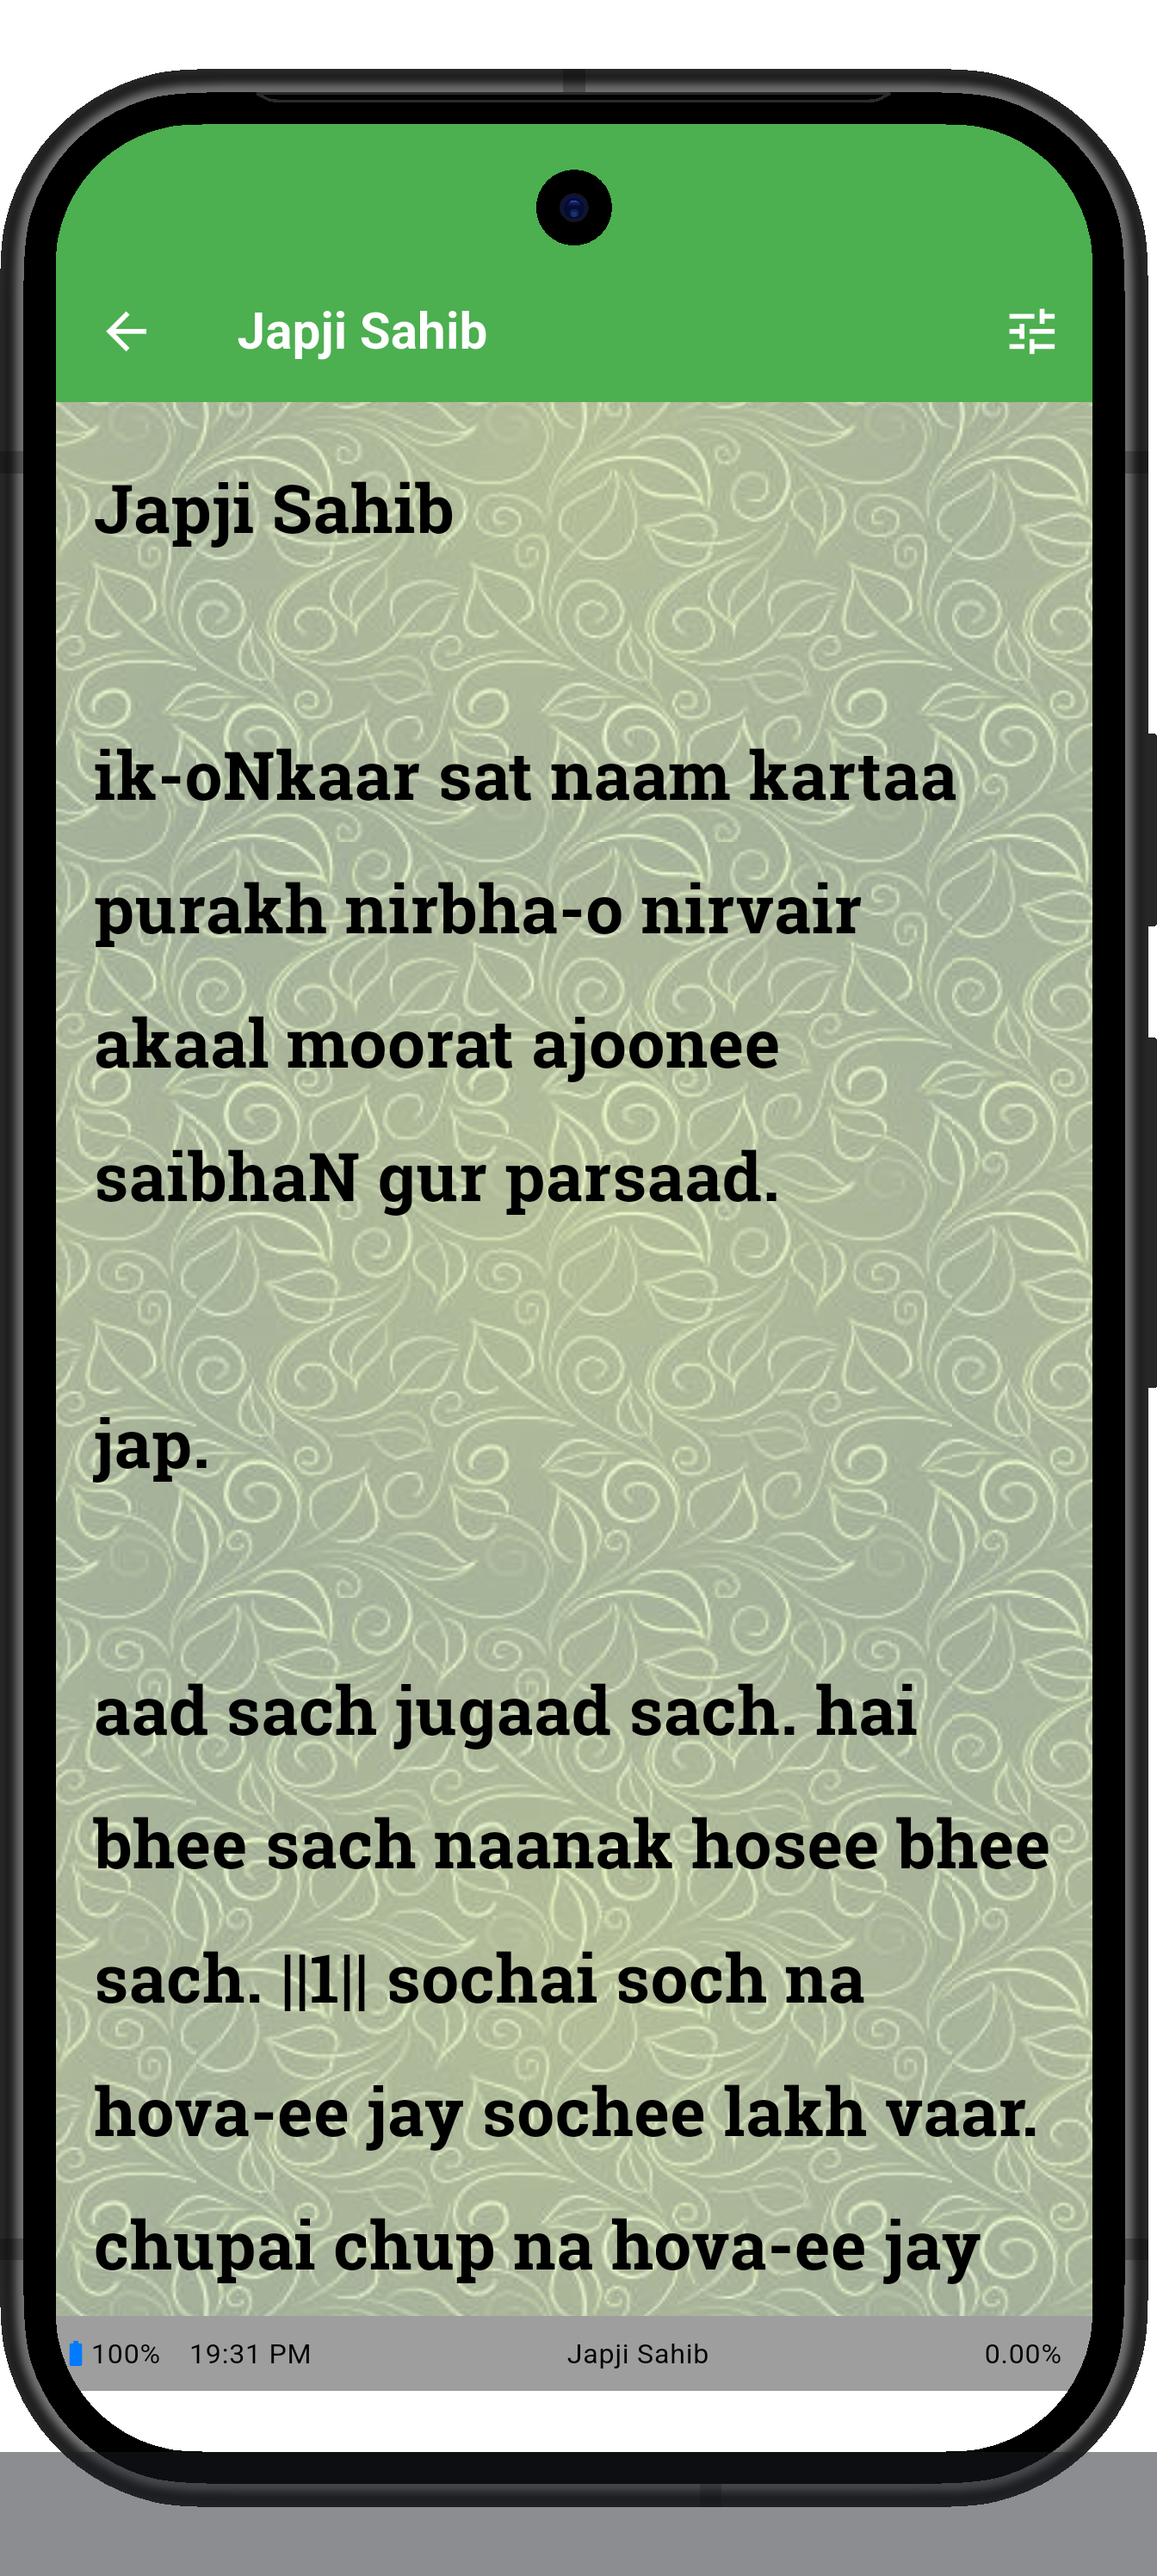
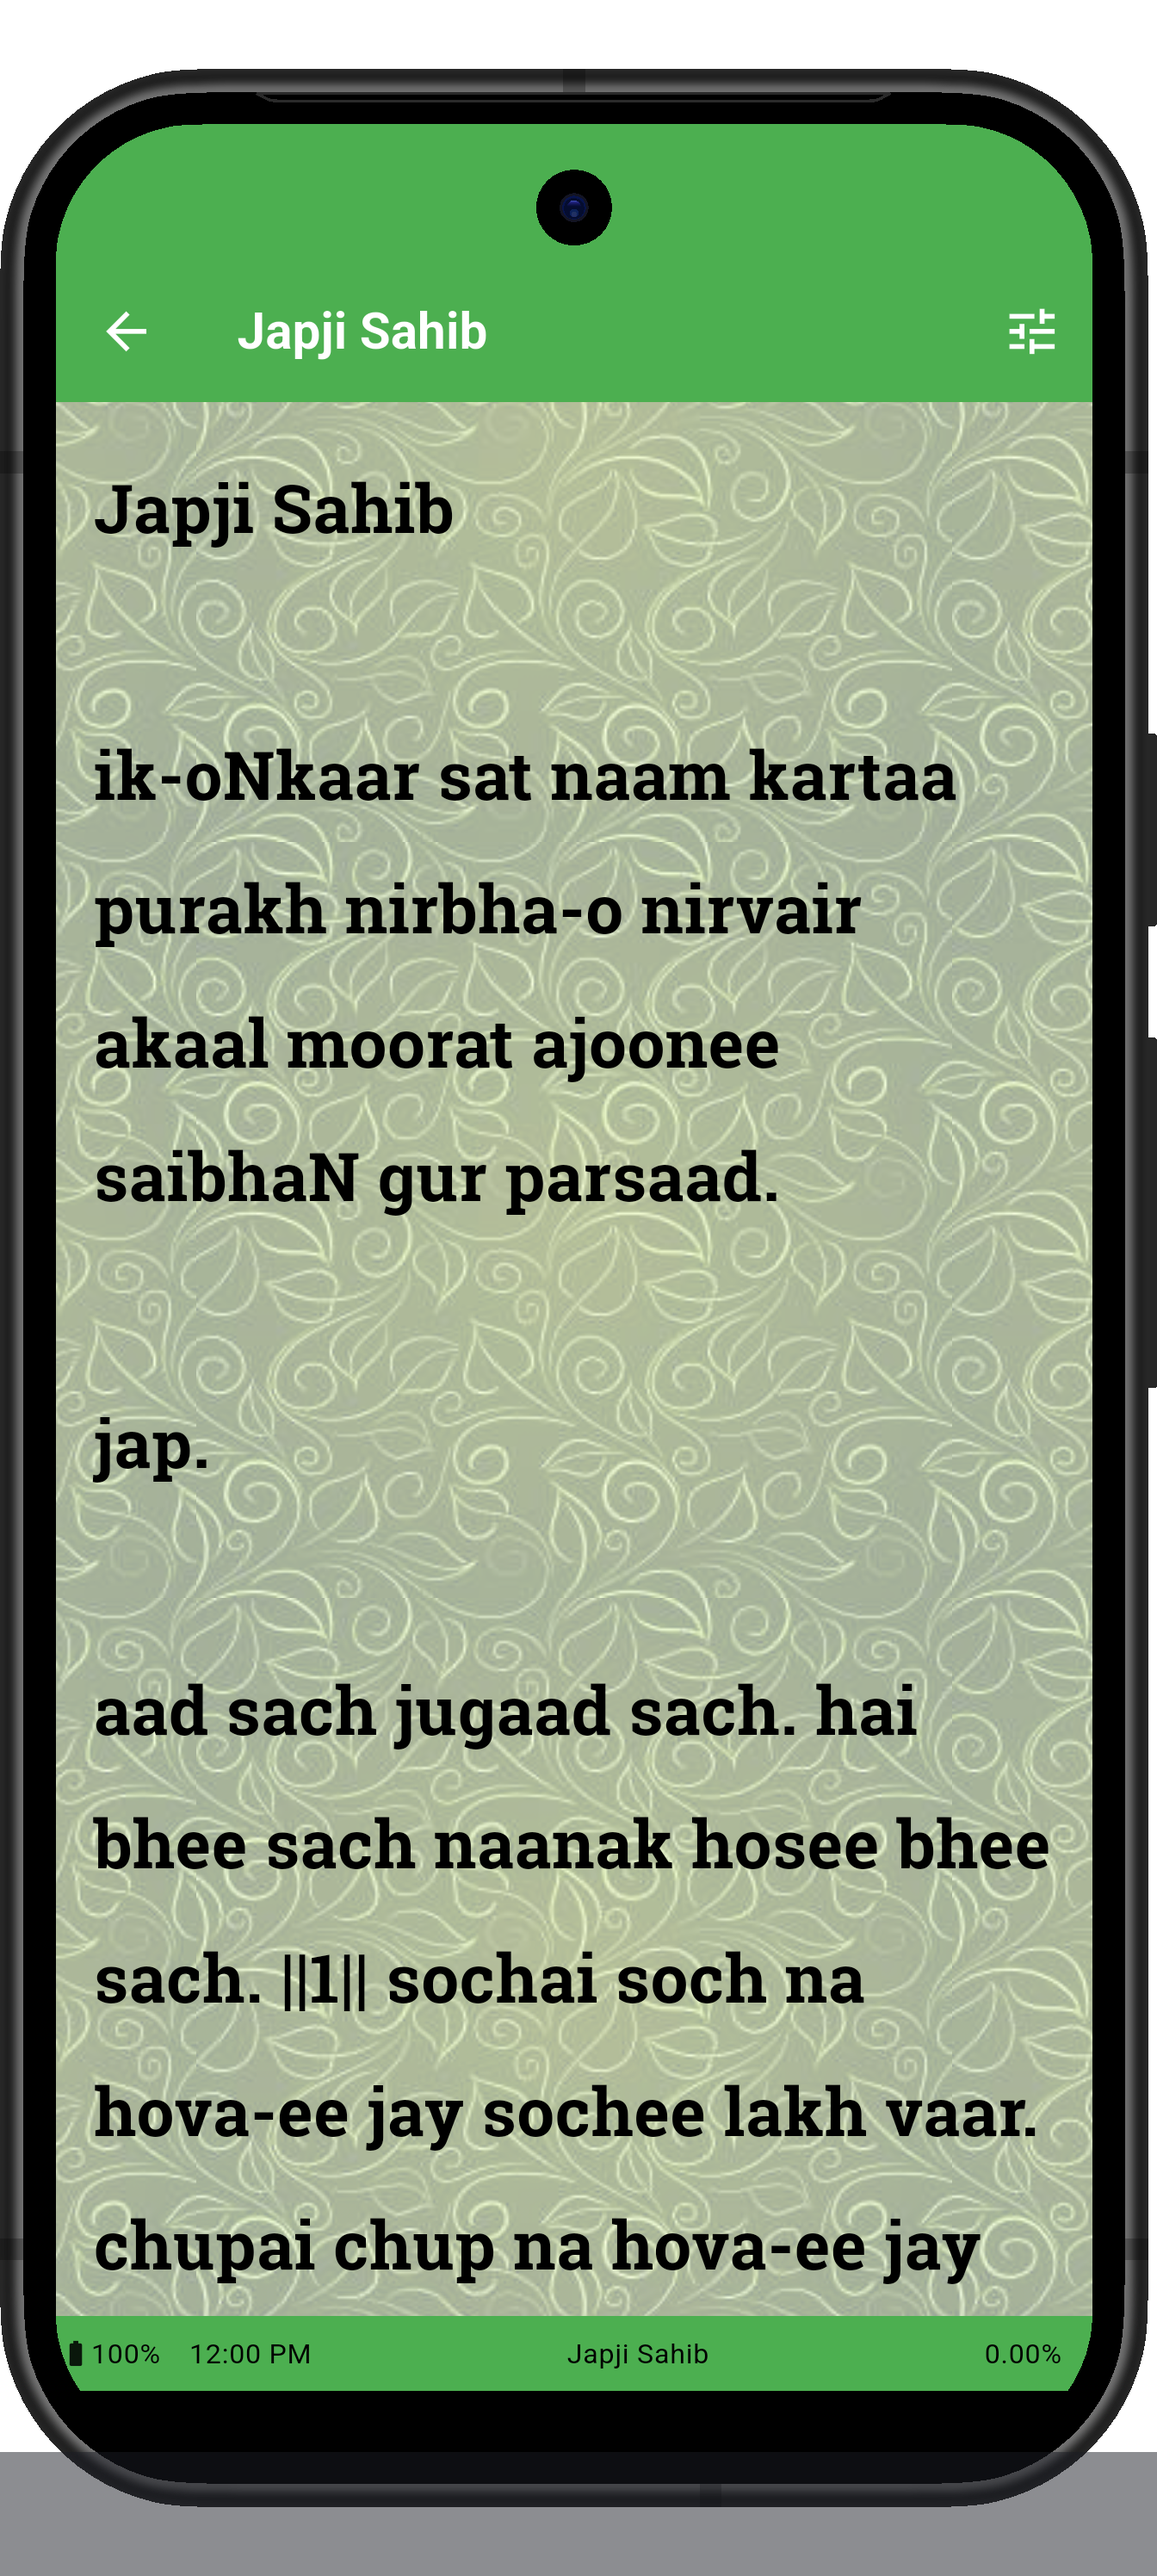
feat: add scripts for generating phone and tablet screenshots
- Introduced `generate_phone_screenshots.sh` to automate screenshot generation for Android phones.
- Introduced `generate_tablet_screenshots.sh` to automate screenshot generation for Android tablets.
- Added a new image file `woodtheme.png` for tablet listing.
- Both scripts include device detection, emulator preparation, and output directory management.

Changed region(s): [[0.0312, 0.9014, 0.9375, 0.9636]]

diff --git a/integration_test/screenshot_test.dart b/integration_test/screenshot_test.dart
@@ -1,3 +1,4 @@
+import 'dart:async';
 import 'package:flutter/material.dart';
 import 'package:flutter_test/flutter_test.dart';
 import 'package:integration_test/integration_test.dart';
@@ -5,6 +6,7 @@ import 'package:nitnem/app.dart';
 import 'package:nitnem/pages/readerscreen.dart';
 import 'package:nitnem/persistence/persistence.dart';
 import 'package:nitnem/providers/settings_provider.dart';
+import 'package:nitnem/providers/system_providers.dart';
 import 'package:nitnem/models/appoptions.dart';
 import 'package:backdrop/backdrop.dart';
 import 'package:device_frame/device_frame.dart';
@@ -15,79 +17,72 @@ class MockSettings extends Settings {
   MockSettings(this.initialOptions);
 
   @override
-  Future<AppOptions> build() async => initialOptions;
+  FutureOr<AppOptions> build() async => initialOptions;
 }
 
 void main() {
   final binding = IntegrationTestWidgetsFlutterBinding.ensureInitialized();
 
-  testWidgets('Capture screenshots for Play Store', (WidgetTester tester) async {
-    print('🚀 Initializing app with device frame...');
+  const String deviceType = String.fromEnvironment('DEVICE_TYPE', defaultValue: 'phone');
+  final bool isTablet = deviceType == 'tablet';
+  
+  // Explicitly select the correct frame
+  final device = isTablet 
+      ? Devices.android.mediumTablet 
+      : Devices.android.googlePixel9;
+  
+  final category = isTablet ? 'android-tablet' : 'android-phone';
+  final orientation = Orientation.portrait; // Force portrait for both
+
+  testWidgets('Capture screenshots for Play Store ($category)', (WidgetTester tester) async {
+    print('🚀 Initializing app with device frame for $category...');
     
-    // Initialize state manually to wrap the app in a DeviceFrame
     final options = await loadOptionsFromPrefs();
     
     await tester.pumpWidget(
       ProviderScope(
         overrides: [
           settingsProvider.overrideWith(() => MockSettings(options)),
+          currentTimeProvider.overrideWith((ref) => Stream.value('12:00 PM')),
+          batteryLevelProvider.overrideWith((ref) => Stream.value(100)),
         ],
         child: Directionality(
           textDirection: TextDirection.ltr,
           child: Container(
-            color: Colors.transparent, // Transparent background for the frame
+            color: Colors.transparent,
             child: DeviceFrame(
-              device: Devices.android.googlePixel9,
-              isFrameVisible: true,
-              orientation: Orientation.portrait,
+              device: device,
+              isFrameVisible: true, // Restore the device border/frame
+              orientation: orientation,
               screen: NitnemApp(),
             ),
           ),
         ),
       ),
     );
-    await tester.pump();
 
-    // Use container to access providers
+    // Wait for the splash screen to finish (3.5s + some buffer)
+    print('⏳ Waiting for splash screen...');
+    await tester.pump(const Duration(seconds: 5));
+    await tester.pumpAndSettle();
+
     final container = ProviderScope.containerOf(tester.element(find.byType(NitnemApp)));
     
-    // Set required options before starting
+    // Set required options
     await container.read(settingsProvider.notifier).toggleBold(true);
     await container.read(settingsProvider.notifier).toggleStatus(true);
-    await container.read(settingsProvider.notifier).toggleScreenAwake(true);
     await container.read(settingsProvider.notifier).toggleReadingPositionSave(true);
-    await container.read(settingsProvider.notifier).updateTextScale(1.33);
+    await container.read(settingsProvider.notifier).updateTextScale(isTablet ? 1.5 : 1.33);
+    await tester.pumpAndSettle();
 
-    print('⏳ Waiting for home screen...');
-    // Wait for the Japji Sahib text to appear, which confirms we are on the home screen
-    bool homeScreenVisible = false;
-    for (int i = 0; i < 50; i++) {
-      await tester.pump(const Duration(milliseconds: 200));
-      // Need to find text even if it is inside the device frame's screen
-      if (find.text('Japji Sahib').evaluate().isNotEmpty) {
-        homeScreenVisible = true;
-        break;
-      }
-    }
-    
-    if (!homeScreenVisible) {
-      print('❌ Error: Home screen not visible after timeout');
-      return;
-    }
-    
-    print('✅ Home screen reached');
-    await tester.pump(const Duration(seconds: 1));
-
-    // Required for Android screenshots
     print('📸 Converting surface to image...');
     await binding.convertFlutterSurfaceToImage();
     await tester.pump(const Duration(milliseconds: 500));
 
-    // Helper to capture screenshot without pointer/crosshair and at top
+    // Helper to capture screenshot
     Future<void> capture(String name) async {
       print('📸 Capturing $name...');
       
-      // Ensure we are at the top of the scroll view for reader screens
       try {
         final scrollableFinder = find.byType(Scrollable);
         if (scrollableFinder.evaluate().isNotEmpty) {
@@ -95,35 +90,22 @@ void main() {
           state.position.jumpTo(0.0);
           await tester.pump();
         }
-      } catch (e) {
-        print('⚠ Could not reset scroll position for $name');
-      }
+      } catch (e) {}
 
-      // Wait for any animations and pointer indicators to clear
-      // Also wait for FutureProviders to resolve
       // Specifically for reader screens, wait for the actual path text to appear
       if (name.contains('path') || name.contains('theme')) {
-        bool loaded = false;
-        for (int i = 0; i < 40; i++) {
+        for (int i = 0; i < 20; i++) {
           await tester.pump(const Duration(milliseconds: 500));
-          // Use a more robust check for the Baani text
           final textFinder = find.byType(Text, skipOffstage: false);
           final textWidgets = tester.widgetList<Text>(textFinder);
-          
-          for (final widget in textWidgets) {
-            final text = widget.data ?? '';
-            if (text.length > 200) { // Baanis are long
-              loaded = true;
-              break;
-            }
+          if (textWidgets.any((t) => (t.data?.length ?? 0) > 200)) {
+            break;
           }
-          if (loaded) break;
         }
       }
 
       await tester.pumpAndSettle();
-      
-      await binding.takeScreenshot(name);
+      await binding.takeScreenshot('$category/$name');
       await tester.pump(const Duration(milliseconds: 500));
     }
 
@@ -141,137 +123,71 @@ void main() {
       }
       
       await tester.pumpAndSettle();
-      
-      // Visually update the UI if possible, but don't fail if it's tricky
-      try {
-        final chipFinder = find.widgetWithText(ChoiceChip, label, skipOffstage: false);
-        if (chipFinder.evaluate().isNotEmpty) {
-          // We just pump enough to show the selection visually if needed, 
-          // but we won't tap if it might disturb the scroll position.
-          await tester.pumpAndSettle();
-        }
-      } catch (e) {}
-      
-      // Guarantee any async loading (assets/fonts/images) has time to settle
-      await tester.pump(const Duration(seconds: 2));
+      await tester.pump(const Duration(seconds: 1));
       await tester.pumpAndSettle();
     }
 
-    // 1. Options (Home Screen Backdrop)
-    print('🎨 Selecting Default Theme via UI...');
+    // 1. Options (Backdrop)
+
     final backdropToggle = find.byType(BackdropToggleButton).first;
     await tester.tap(backdropToggle);
     await tester.pumpAndSettle();
-
-    final defaultTheme = find.widgetWithText(ChoiceChip, 'Default', skipOffstage: false).last;
-    await tester.ensureVisible(defaultTheme);
-    await tester.pumpAndSettle();
-    await tester.tap(defaultTheme, warnIfMissed: false);
-    await tester.pumpAndSettle();
-
+    await tapChip('Default', isTheme: true, expectedValue: 'ThemeName.Default');
     await capture('options');
 
-    // 2. Main Screen
-    print('🔘 Closing options menu...');
+    // 2. Home Screen
     await tester.tap(backdropToggle);
     await tester.pumpAndSettle();
-
     await capture('mainscreen');
 
-    // 3. Reader Screen (Gurmukhi) - Tap 'Japji Sahib'
-    print('📖 Opening Japji Sahib...');
+    // 3. Reader Screen (Gurmukhi)
     await tester.tap(find.text('Japji Sahib'));
     await tester.pumpAndSettle();
-
     await capture('path-gurmukhi');
 
     // 4. Path Hindi
-    print('🔘 Switching to Hindi via UI...');
-    await tester.pump(const Duration(seconds: 1));
-    final optionsButton = find.byKey(const Key('reader_options_button'), skipOffstage: false).last;
-    
-    print('🔘 Opening options menu...');
+    final optionsButton = find.byKey(const Key('reader_options_button')).last;
     await tester.tap(optionsButton, warnIfMissed: false);
     await tester.pumpAndSettle();
-    
     await tapChip('Hindi');
-
-    // Close options to see the text
-    print('🔘 Closing options menu...');
     await tester.tap(optionsButton, warnIfMissed: false);
     await tester.pumpAndSettle();
-
     await capture('path-hindi');
 
     // 5. Path English
-    print('🔘 Switching to English via UI...');
     await tester.tap(optionsButton, warnIfMissed: false);
     await tester.pumpAndSettle();
-    
     await tapChip('English');
-    
-    // Close options
     await tester.tap(optionsButton, warnIfMissed: false);
     await tester.pumpAndSettle();
-
     await capture('path-english');
 
-    // --- Themes ---
-    
     // 6. Forest Theme
-    print('🎨 Switching to Forest Theme via UI...');
     await tester.tap(optionsButton, warnIfMissed: false);
     await tester.pumpAndSettle();
-    
     await tapChip('Forest', isTheme: true, expectedValue: 'ThemeName.Forest');
-    
-    // Close options
     await tester.tap(optionsButton, warnIfMissed: false);
     await tester.pumpAndSettle();
-    
     await capture('foresttheme');
 
     // 7. Wood Theme
-    print('🎨 Switching to Wood Theme via UI...');
     await tester.tap(optionsButton, warnIfMissed: false);
     await tester.pumpAndSettle();
-    
     await tapChip('Wood', isTheme: true, expectedValue: 'ThemeName.Wood');
-    
-    // Close options
     await tester.tap(optionsButton, warnIfMissed: false);
     await tester.pumpAndSettle();
-
     await capture('woodtheme');
 
-    // 8. Stars Theme (Dark) on Main Screen
-    print('🏠 Going back to Home Screen for Dark Theme...');
-    final BuildContext readerContext = tester.element(find.byType(ReaderScreen));
-    Navigator.of(readerContext).pop();
+    // 8. Stars Theme
+    Navigator.of(tester.element(find.byType(ReaderScreen))).pop();
     await tester.pumpAndSettle();
-
-    print('🎨 Switching to Stars Theme (Dark) via UI...');
-    // Open home screen backdrop options
-    final homeBackdropToggle = find.byType(BackdropToggleButton).first;
-    await tester.tap(homeBackdropToggle);
+    await tester.tap(backdropToggle);
     await tester.pumpAndSettle();
-
-    print('🔘 Selecting Stars theme...');
-    final starsTheme = find.widgetWithText(ChoiceChip, 'Stars', skipOffstage: false).last;
-    await tester.ensureVisible(starsTheme);
+    await tapChip('Stars', isTheme: true, expectedValue: 'ThemeName.Stars');
+    await tester.tap(backdropToggle);
     await tester.pumpAndSettle();
-    await tester.tap(starsTheme, warnIfMissed: false);
-    await tester.pumpAndSettle();
-
-    // Close backdrop
-    await tester.tap(homeBackdropToggle);
-    await tester.pumpAndSettle();
-
     await capture('darktheme');
 
     print('✅ Screenshot generation complete!');
   });
-}
-
-extension on WidgetTester {
 }

diff --git a/test_driver/screenshot_driver.dart b/test_driver/screenshot_driver.dart
@@ -5,10 +5,15 @@ Future<void> main() async {
   await integrationDriver(
     onScreenshot: (String screenshotName, List<int> screenshotBytes,
         [Map<String, dynamic>? args]) async {
-      final File image = File('listing/android-phone/$screenshotName.png');
+      // If screenshotName contains a slash, it's treated as a sub-path
+      final String fullPath = screenshotName.contains('/') 
+          ? 'listing/$screenshotName.png'
+          : 'listing/android-phone/$screenshotName.png';
+          
+      final File image = File(fullPath);
       await image.create(recursive: true);
       await image.writeAsBytes(screenshotBytes);
-      print('Screenshot saved: listing/android-phone/$screenshotName.png');
+      print('Screenshot saved: $fullPath');
       return true;
     },
   );
